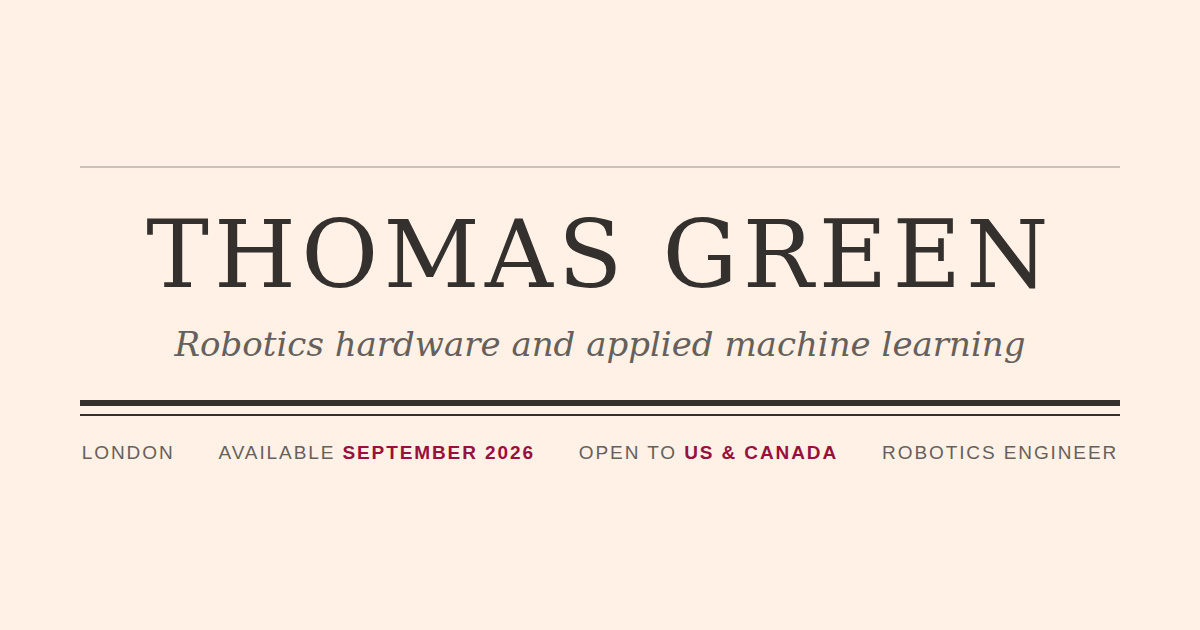
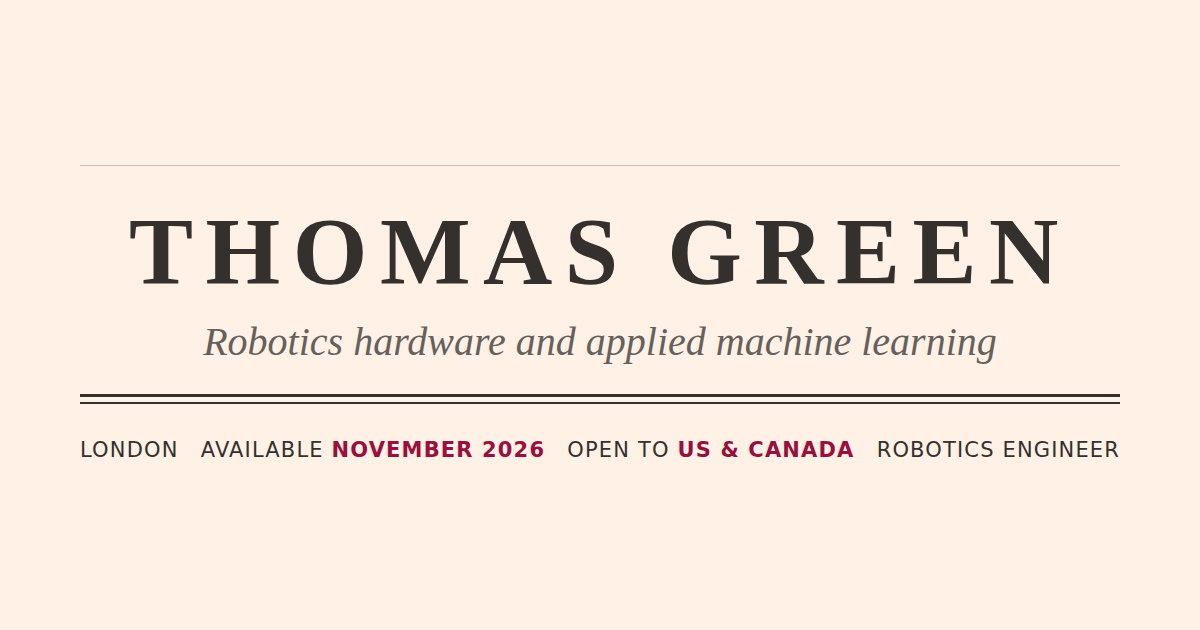
Nov 2026 availability,  CV + og-card refreshed

diff --git a/vine-robot.html b/vine-robot.html
@@ -5,9 +5,9 @@
 <meta name="viewport" content="width=device-width, initial-scale=1">
 <meta name="theme-color" content="#fff1e5">
 <title>Soft vine robot for fibre installation - Thomas Green</title>
-<meta name="description" content="A soft growing robot that installs fibre-optic cable through congested buried ducting, taken from concept through field trials and into production.">
+<meta name="description" content="A soft growing robot that installs fibre-optic cable through congested buried ducting, taken from concept through field trials to production and testing.">
 <meta property="og:title" content="Soft vine robot for fibre installation - Thomas Green">
-<meta property="og:description" content="A soft growing robot that installs fibre-optic cable through congested buried ducting, taken from concept through field trials and into production.">
+<meta property="og:description" content="A soft growing robot that installs fibre-optic cable through congested buried ducting, taken from concept through field trials to production and testing.">
 <meta property="og:type" content="article">
 <meta property="og:url" content="https://tgreen-fe.github.io/vine-robot.html">
 <meta property="og:image" content="https://tgreen-fe.github.io/assets/og-card.png">
@@ -45,7 +45,7 @@
     <div><dt>Context</dt><dd>Liberty Global, Technology &amp; Innovation</dd></div>
     <div><dt>Role</dt><dd>Co-led ideation and prototyping</dd></div>
     <div><dt>Period</dt><dd>2022 to 2024, Zurich</dd></div>
-    <div><dt>Status</dt><dd>Patent-pending, in production</dd></div>
+    <div><dt>Status</dt><dd>Patent-pending, in production and testing</dd></div>
   </dl>
 </div>
 
@@ -113,9 +113,8 @@
   </figure>
 
   <div class="stats">
-    <div><span class="v">4</span><span class="k">prototypes built in nine months</span></div>
+    <div><span class="v">3</span><span class="k">prototypes built in nine months</span></div>
     <div><span class="v">200+ m</span><span class="k">traversed in a single run of live duct</span></div>
-    <div><span class="v">3</span><span class="k">operating companies now running it</span></div>
   </div>
 </div>
 
@@ -136,7 +135,7 @@
     had been aimed at buried telecoms duct at the lengths a real route needs.</p>
 
   <h2>What I did</h2>
-  <p>I co-led the idea from the start and ran the prototyping. Over roughly nine months we built four prototypes, 3D printed and machined in-house, each one answering the failure we had hit with the last. The early builds answered whether the robot would evert at all.
+  <p>I co-led the idea from the start and ran the prototyping. Over roughly nine months we built three prototypes, 3D printed and machined in-house, each one answering the failure we had hit with the last. The early builds answered whether the robot would evert at all.
     The later ones dealt with what makes it deployable: getting round
       bends, dealing with debris, and retracting cleanly when a run has to be
       abandoned.</p>
@@ -203,7 +202,7 @@
 <div class="wrap prose">
   <h2>Where it went</h2>
   <p>Demand from the operating companies pushed it into productionisation, and
-    it now runs across three of them. A patent application covering the work
+    it's now in production and testing across them. A patent application covering the work
     was filed by the company and is pending.</p>
 
   <h2>What I would do differently</h2>

diff --git a/figures/og-card.html b/figures/og-card.html
@@ -1,0 +1,32 @@
+<!DOCTYPE html>
+<html><head><meta charset="utf-8"><style>
+  html,body{margin:0;padding:0;}
+  body{width:1200px;height:630px;background:#fff1e5;font-kerning:normal;-webkit-font-smoothing:antialiased;}
+  .wrap{position:relative;width:1200px;height:630px;}
+  .hair{position:absolute;left:80px;right:80px;top:165px;border-top:1px solid #ccc1b7;}
+  .name{position:absolute;left:0;right:0;top:196px;text-align:center;
+        font-family:"Palatino Linotype","Book Antiqua",Palatino,Georgia,serif;
+        font-weight:600;font-size:96px;letter-spacing:0.13em;color:#33302e;}
+  .tag{position:absolute;left:0;right:0;top:318px;text-align:center;
+       font-family:"Palatino Linotype","Book Antiqua",Palatino,Georgia,serif;
+       font-style:italic;font-size:40px;color:#66605c;}
+  .dbl{position:absolute;left:80px;right:80px;top:394px;border-top:3px solid #33302e;}
+  .dbl2{position:absolute;left:80px;right:80px;top:402px;border-top:2px solid #33302e;}
+  .strip{position:absolute;left:80px;right:80px;top:438px;display:flex;justify-content:space-between;
+         font-family:system-ui,Roboto,Helvetica,Arial,sans-serif;font-size:21px;letter-spacing:0.055em;color:#33302e;}
+  .strip span{white-space:nowrap;}
+  .strip b{color:#990f3d;font-weight:700;}
+</style></head><body>
+<div class="wrap">
+  <div class="hair"></div>
+  <div class="name">THOMAS GREEN</div>
+  <div class="tag">Robotics hardware and applied machine learning</div>
+  <div class="dbl"></div><div class="dbl2"></div>
+  <div class="strip">
+    <span>LONDON</span>
+    <span>AVAILABLE <b>NOVEMBER 2026</b></span>
+    <span>OPEN TO <b>US &amp; CANADA</b></span>
+    <span>ROBOTICS ENGINEER</span>
+  </div>
+</div>
+</body></html>

diff --git a/index.html b/index.html
@@ -30,7 +30,7 @@
   <div class="wrap">
     <div class="dateline">
       <span class="facts-set">
-        <span>Available <b>September 2026</b></span>
+        <span>Available <b>November 2026</b></span>
         <span>Open to <b>US &amp; Canada</b></span>
       </span>
       <nav class="site-nav" aria-label="Primary">
@@ -98,7 +98,7 @@
           <div class="card-body">
             <p class="card-meta"><span>Soft robotics</span><span class="drg">TG-002</span></p>
             <h3>Soft vine robot for fibre installation</h3>
-            <p>A robot that grows along buried ducting to pull fibre-optic cable, now in production after field trials.</p>
+            <p>A robot that grows along buried ducting to pull fibre-optic cable, now in production and testing after field trials.</p>
           </div>
         </a>
       </li>
@@ -211,7 +211,7 @@
 <section id="contact">
   <div class="wrap prose">
     <h2>Get in touch</h2>
-    <p>I'm looking for robotics and applied-ML roles from September 2026, and I'm open to relocating to the US or Canada. I'm a British citizen,
+    <p>I'm looking for robotics and applied-ML roles from November 2026, and I'm open to relocating to the US or Canada. I'm a British citizen,
       eligible for a Canadian IEC open work permit with no sponsorship needed, and for a J-1 visa in the US.</p>
     <p>The fastest way to reach me is
       <a href="mailto:tbbgreen@gmail.com">tbbgreen@gmail.com</a>.</p>
